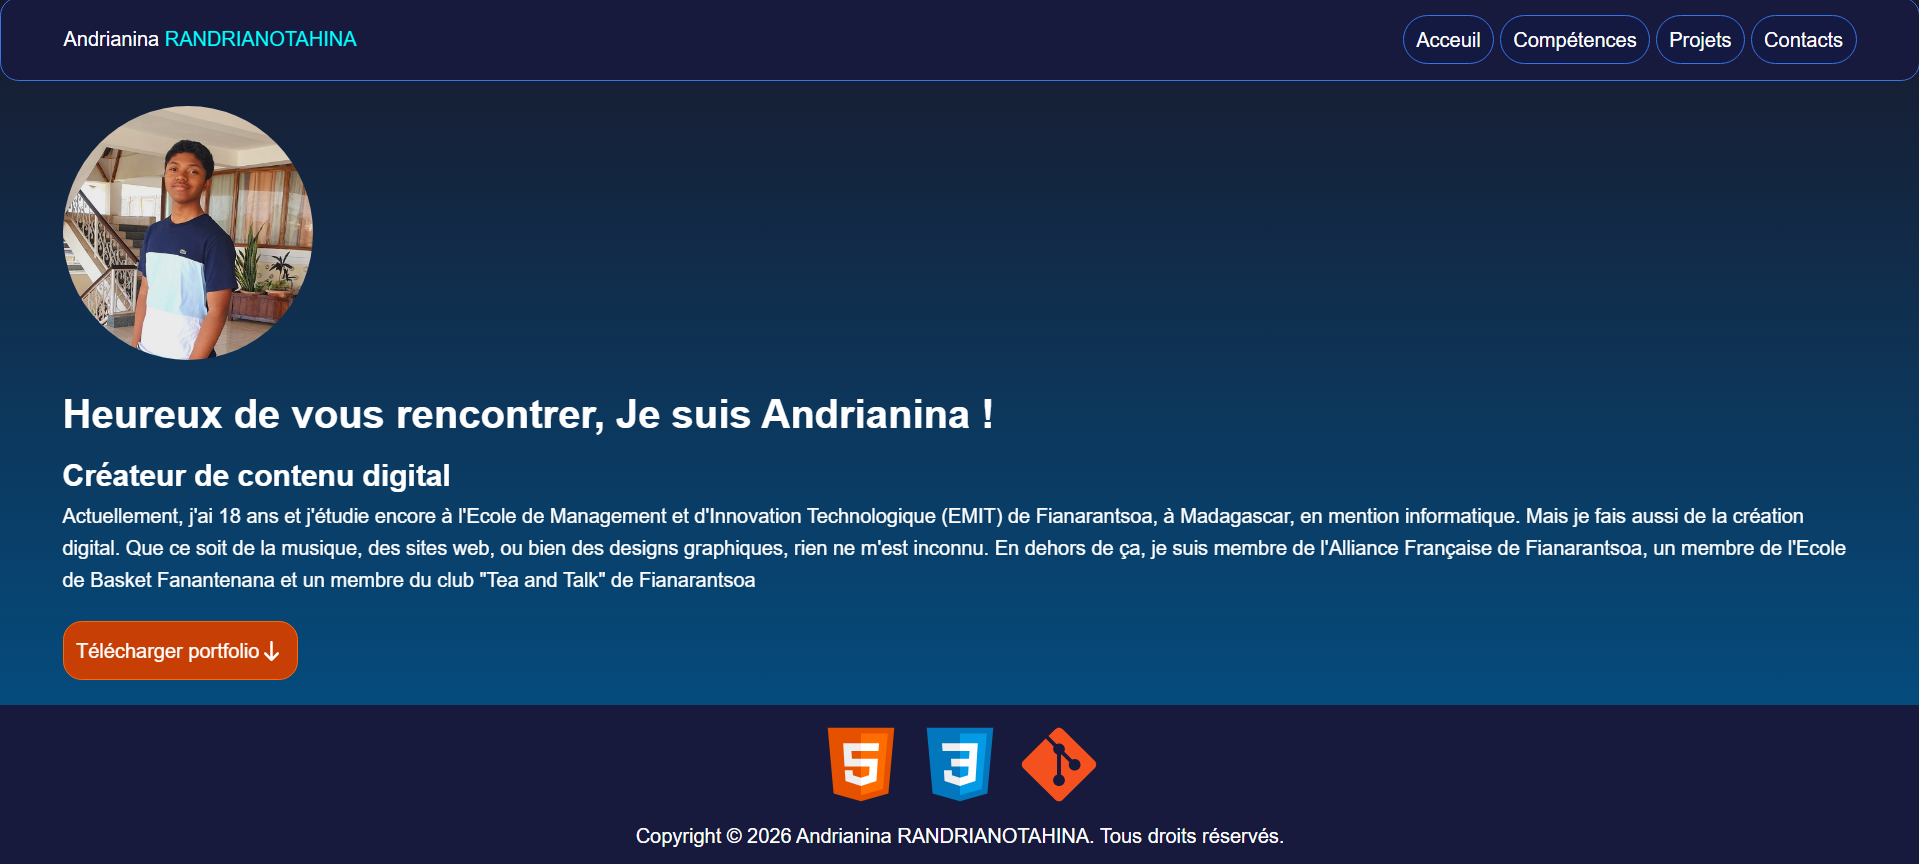
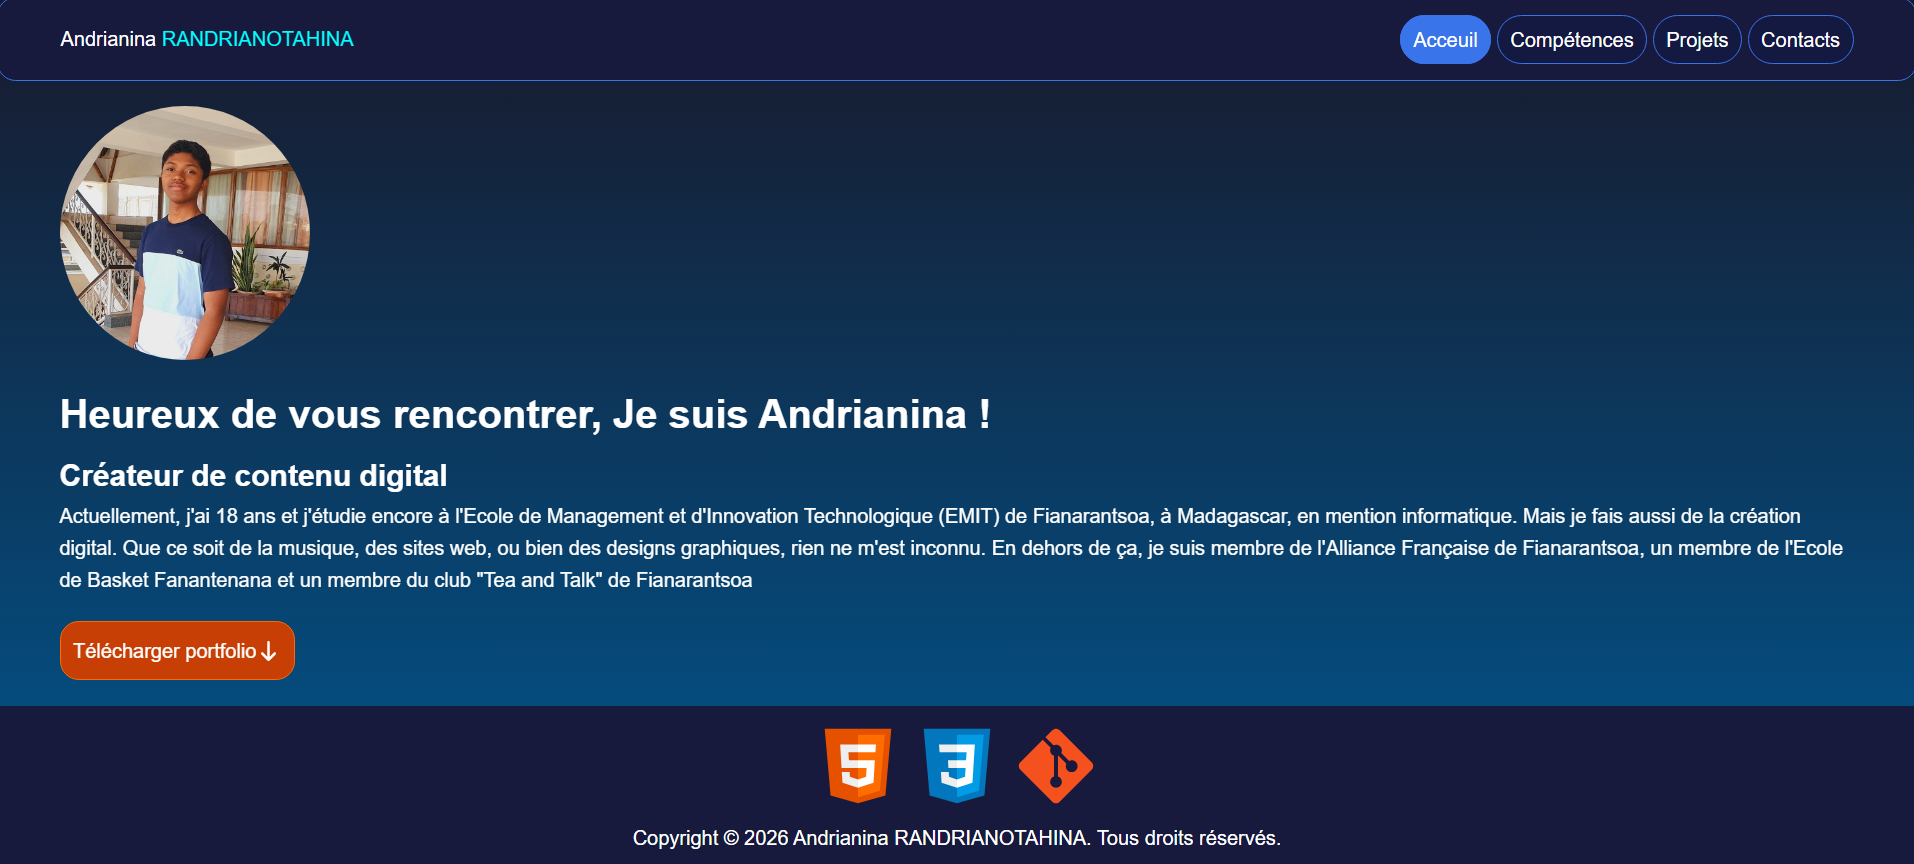
Responsivité

diff --git a/style.css b/style.css
@@ -104,13 +104,12 @@ footer{
     padding: 10px 0;
 }
 
-article{
-    margin-bottom: 20px;
+#copyright{
+    text-align: center;
 }
 
-ul{
-    list-style: none;
-    padding-left: 20px;
+article{
+    margin-bottom: 20px;
 }
 
 .certif{
@@ -155,7 +154,7 @@ ul{
     grid-column: 2 / 4;
 }
 
-@media (max-width: 800px) {
+@media (max-width: 768px) {
     #tableau {
         grid-template-columns: 1fr;
     }
@@ -163,6 +162,40 @@ ul{
     #t1, #t2, #t3, #t4 {
         grid-column: 1 / -1;
         grid-row: auto;
+    }
+
+    nav{
+        display: grid;
+        grid-template-columns: auto auto;
+        grid-template-rows: auto auto;
+        grid-template-areas:
+            "accueil skill"
+            "projet contact";
+        gap: 4px;
+    }
+
+    header{
+        position: unset;
+        padding: 20px 20px;
+    }
+
+    #appelation{
+        display: flex;
+        align-items: center;
+        gap: 2px;
+    }
+}
+
+@media (max-width: 500px) {
+    #appelation{
+        display: flex;
+        flex-direction: column;
+        justify-content: center;
+        font-size: 13px;
+    }
+
+    nav{
+        font-size: 13px;
     }
 }
 
@@ -174,8 +207,6 @@ table{
     padding: 20px;
     font-family: 'Trebuchet MS', 'Lucida Sans Unicode', 'Lucida Grande', 'Lucida Sans', Arial, sans-serif;
     font-size: 125%;
-    box-sizing: border-box;
-
 }
 
 caption{

diff --git a/index.html b/index.html
@@ -8,12 +8,12 @@
 </head>
 <body>
     <header>
-        <p><span>Andrianina</span> <span id="nom">RANDRIANOTAHINA</span></p>
+        <p id="appelation"><span>Andrianina</span> <span id="nom">RANDRIANOTAHINA</span></p>
         <nav>
-            <a href="index.html" class="nav-link active">Acceuil</a>
-            <a href="skills.html">Compétences</a>
-            <a href="xp.html">Projets</a>
-            <a href="contacts.html">Contacts</a>
+            <a href="index.html" class="nav-link active" id="accueil">Acceuil</a>
+            <a href="skills.html" id="skill">Compétences</a>
+            <a href="xp.html" id="projet">Projets</a>
+            <a href="contacts.html" id="contact">Contacts</a>
         </nav>     
     </header>
     <main>
@@ -33,7 +33,7 @@
             <img src="./assets-svg/css.svg" alt="Votre navigateur ne supporte pas l'image">
             <img src="./assets-svg/git.svg" alt="Votre navigateur ne supporte pas l'image">
         </div>
-        <p>Copyright © 2026 Andrianina RANDRIANOTAHINA. Tous droits réservés.</p>
+        <p id="copyright">Copyright © 2026 Andrianina RANDRIANOTAHINA. Tous droits réservés.</p>
     </footer>
 </body>
 </html>

diff --git a/xp.html b/xp.html
@@ -8,12 +8,12 @@
 </head>
 <body>
     <header>
-        <p><span>Andrianina</span> <span id="nom">RANDRIANOTAHINA</span></p>
+        <p id="appelation"><span>Andrianina</span> <span id="nom">RANDRIANOTAHINA</span></p>
         <nav>
-            <a href="index.html">Acceuil</a>
-            <a href="skills.html">Compétences</a>
-            <a href="xp.html" class="nav-link active">Projets</a>
-            <a href="contacts.html">Contacts</a>
+            <a href="index.html" id="accueil">Acceuil</a>
+            <a href="skills.html" id="skill">Compétences</a>
+            <a href="xp.html" class="nav-link active" id="projet">Projets</a>
+            <a href="contacts.html" id="contact">Contacts</a>
         </nav>     
     </header> 
     <main>
@@ -53,6 +53,6 @@
             <img src="./assets-svg/css.svg" alt="Votre navigateur ne supporte pas l'image">
             <img src="./assets-svg/git.svg" alt="Votre navigateur ne supporte pas l'image">
         </div>
-        <p>Copyright © 2026 Andrianina RANDRIANOTAHINA. Tous droits réservés.</p>
+        <p id="copyright">Copyright © 2026 Andrianina RANDRIANOTAHINA. Tous droits réservés.</p>
     </footer>
 </body>

diff --git a/contacts.html b/contacts.html
@@ -8,12 +8,12 @@
 </head>
 <body>
     <header>
-        <p><span>Andrianina</span> <span id="nom">RANDRIANOTAHINA</span></p>
+        <p id="appelation"><span>Andrianina</span> <span id="nom">RANDRIANOTAHINA</span></p>
         <nav>
-            <a href="index.html">Acceuil</a>
-            <a href="skills.html">Compétences</a>
-            <a href="xp.html">Projets</a>
-            <a href="contacts.html" class="nav-link active">Contacts</a>
+            <a href="index.html" id="accueil">Acceuil</a>
+            <a href="skills.html" id="skill">Compétences</a>
+            <a href="xp.html" id="projet">Projets</a>
+            <a href="contacts.html" class="nav-link active" id="contact">Contacts</a>
         </nav>     
     </header>
     <main>
@@ -64,6 +64,6 @@
             <img src="./assets-svg/css.svg" alt="Votre navigateur ne supporte pas l'image">
             <img src="./assets-svg/git.svg" alt="Votre navigateur ne supporte pas l'image">
         </div>
-        <p>Copyright © 2026 Andrianina RANDRIANOTAHINA. Tous droits réservés.</p>
+        <p id="copyright">Copyright © 2026 Andrianina RANDRIANOTAHINA. Tous droits réservés.</p>
     </footer>
 </body>

diff --git a/skills.html b/skills.html
@@ -9,12 +9,12 @@
 </head>
 <body>
     <header>
-        <p><span>Andrianina</span> <span id="nom">RANDRIANOTAHINA</span></p>
+        <p id="appelation"><span>Andrianina</span> <span id="nom">RANDRIANOTAHINA</span></p>
         <nav>
-            <a href="index.html">Acceuil</a>
-            <a href="skills.html" class="nav-link active">Compétences</a>
-            <a href="xp.html">Projets</a>
-            <a href="contacts.html">Contacts</a>
+            <a href="index.html" id="accueil">Acceuil</a>
+            <a href="skills.html" class="nav-link active" id="skill">Compétences</a>
+            <a href="xp.html" id="projet">Projets</a>
+            <a href="contacts.html" id="contact">Contacts</a>
         </nav>     
     </header>
     <main>
@@ -98,6 +98,6 @@
             <img src="./assets-svg/css.svg" alt="Votre navigateur ne supporte pas l'image">
             <img src="./assets-svg/git.svg" alt="Votre navigateur ne supporte pas l'image">
         </div>
-        <p>Copyright © 2026 Andrianina RANDRIANOTAHINA. Tous droits réservés.</p>
+        <p id="copyright">Copyright © 2026 Andrianina RANDRIANOTAHINA. Tous droits réservés.</p>
     </footer>
 </body>
